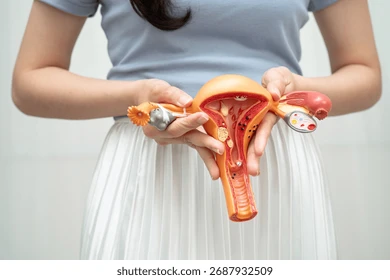
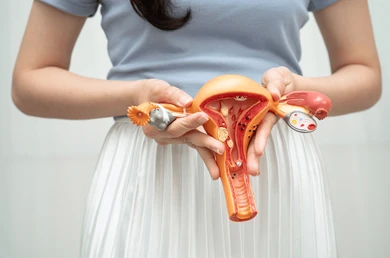
correcciones varias

diff --git a/src/components/sections/home/HomeHero.tsx b/src/components/sections/home/HomeHero.tsx
@@ -16,7 +16,7 @@ export default function HomeHero() {
       <PageContainer sx={{ position: "relative", zIndex: 1, py: { xs: 10, md: 10 } }}>
         <Box sx={{ maxWidth: 760, color: "common.white" }}>
           <Typography sx={{ mb: 2.25, fontSize: ".78rem", fontWeight: 800, letterSpacing: ".18em", textTransform: "uppercase" }}>Atención de matrona a domicilio</Typography>
-          <Typography variant="h1" sx={{ mb: 3, fontSize: { xs: "clamp(2.8rem, 14vw, 4rem)", sm: "4.4rem", md: "clamp(3rem, 6vw, 5.8rem)" }, lineHeight: .98 }}>
+          <Typography variant="h1" sx={{ mb: 3, fontSize: { xs: "clamp(2.8rem, 14vw, 3.3rem)", sm: "4.4rem", md: "clamp(3rem, 6vw, 5.8rem)" }, lineHeight: .98 }}>
             Acompañamiento en cada etapa de tu salud sexual y reproductiva
           </Typography>
           <Typography sx={{ maxWidth: 650, mb: 4.25, color: "rgba(255,255,255,.91)", fontSize: { xs: "1rem", md: "1.18rem" }, lineHeight: 1.75 }}>
